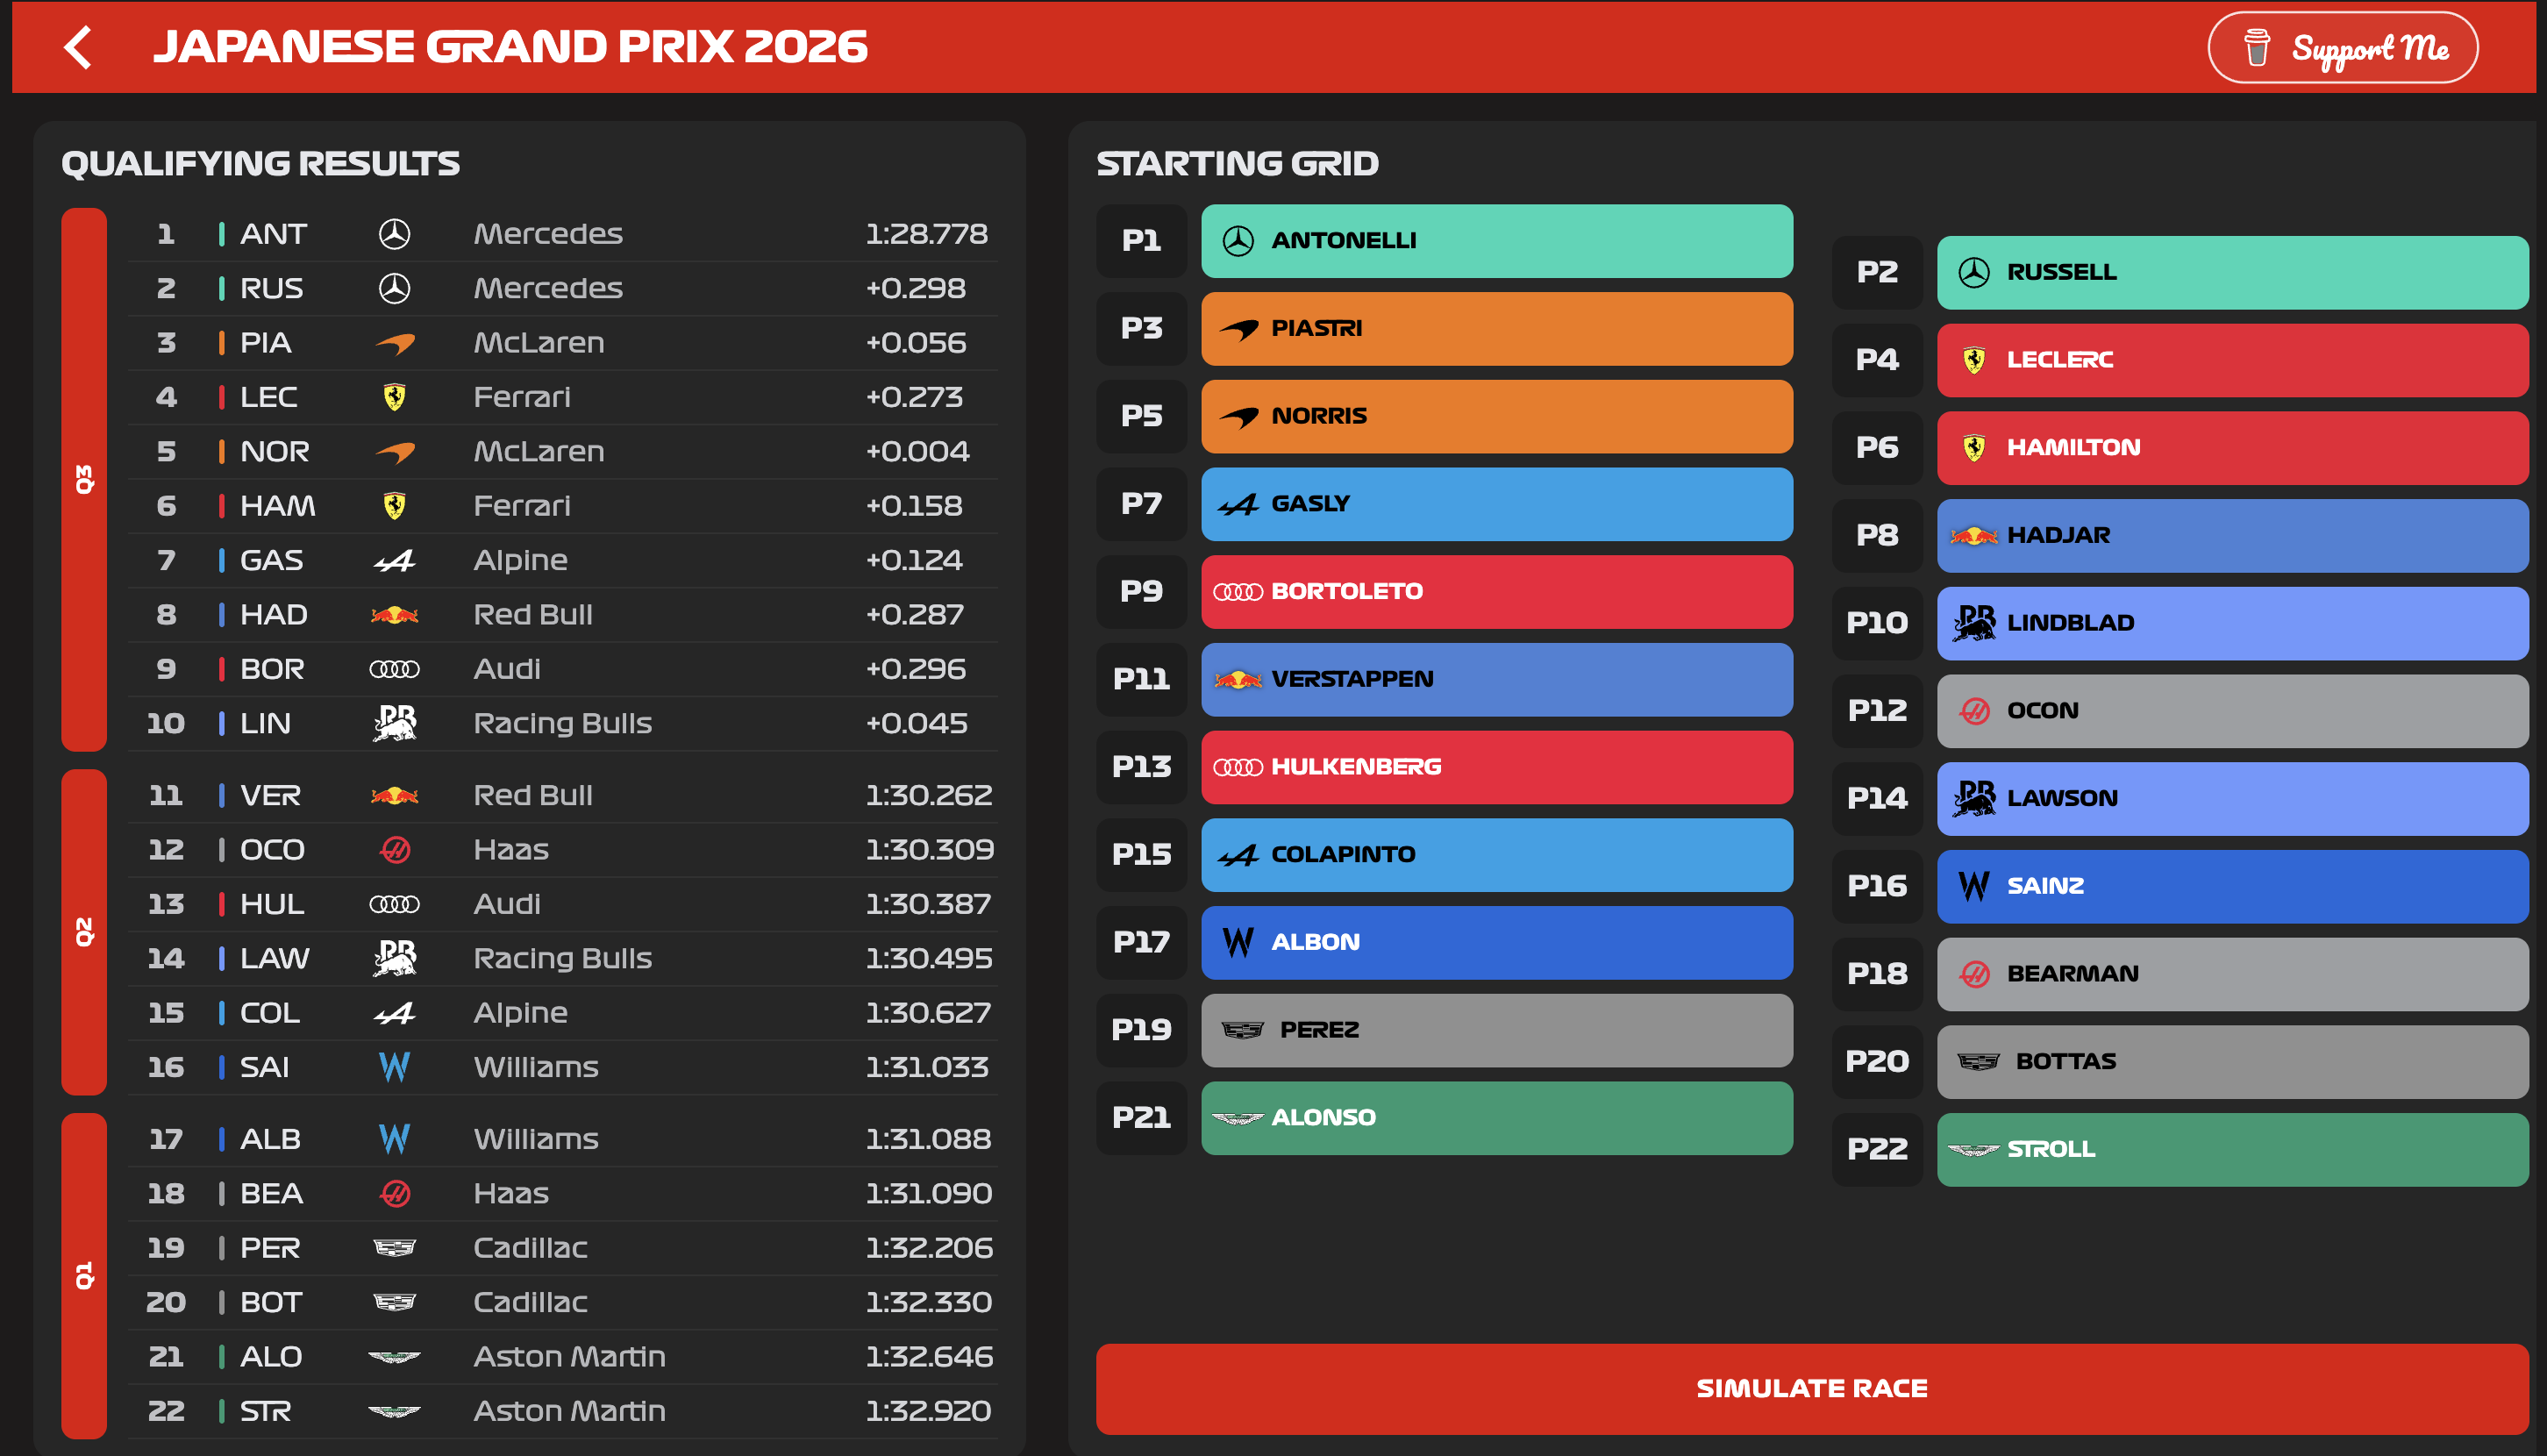
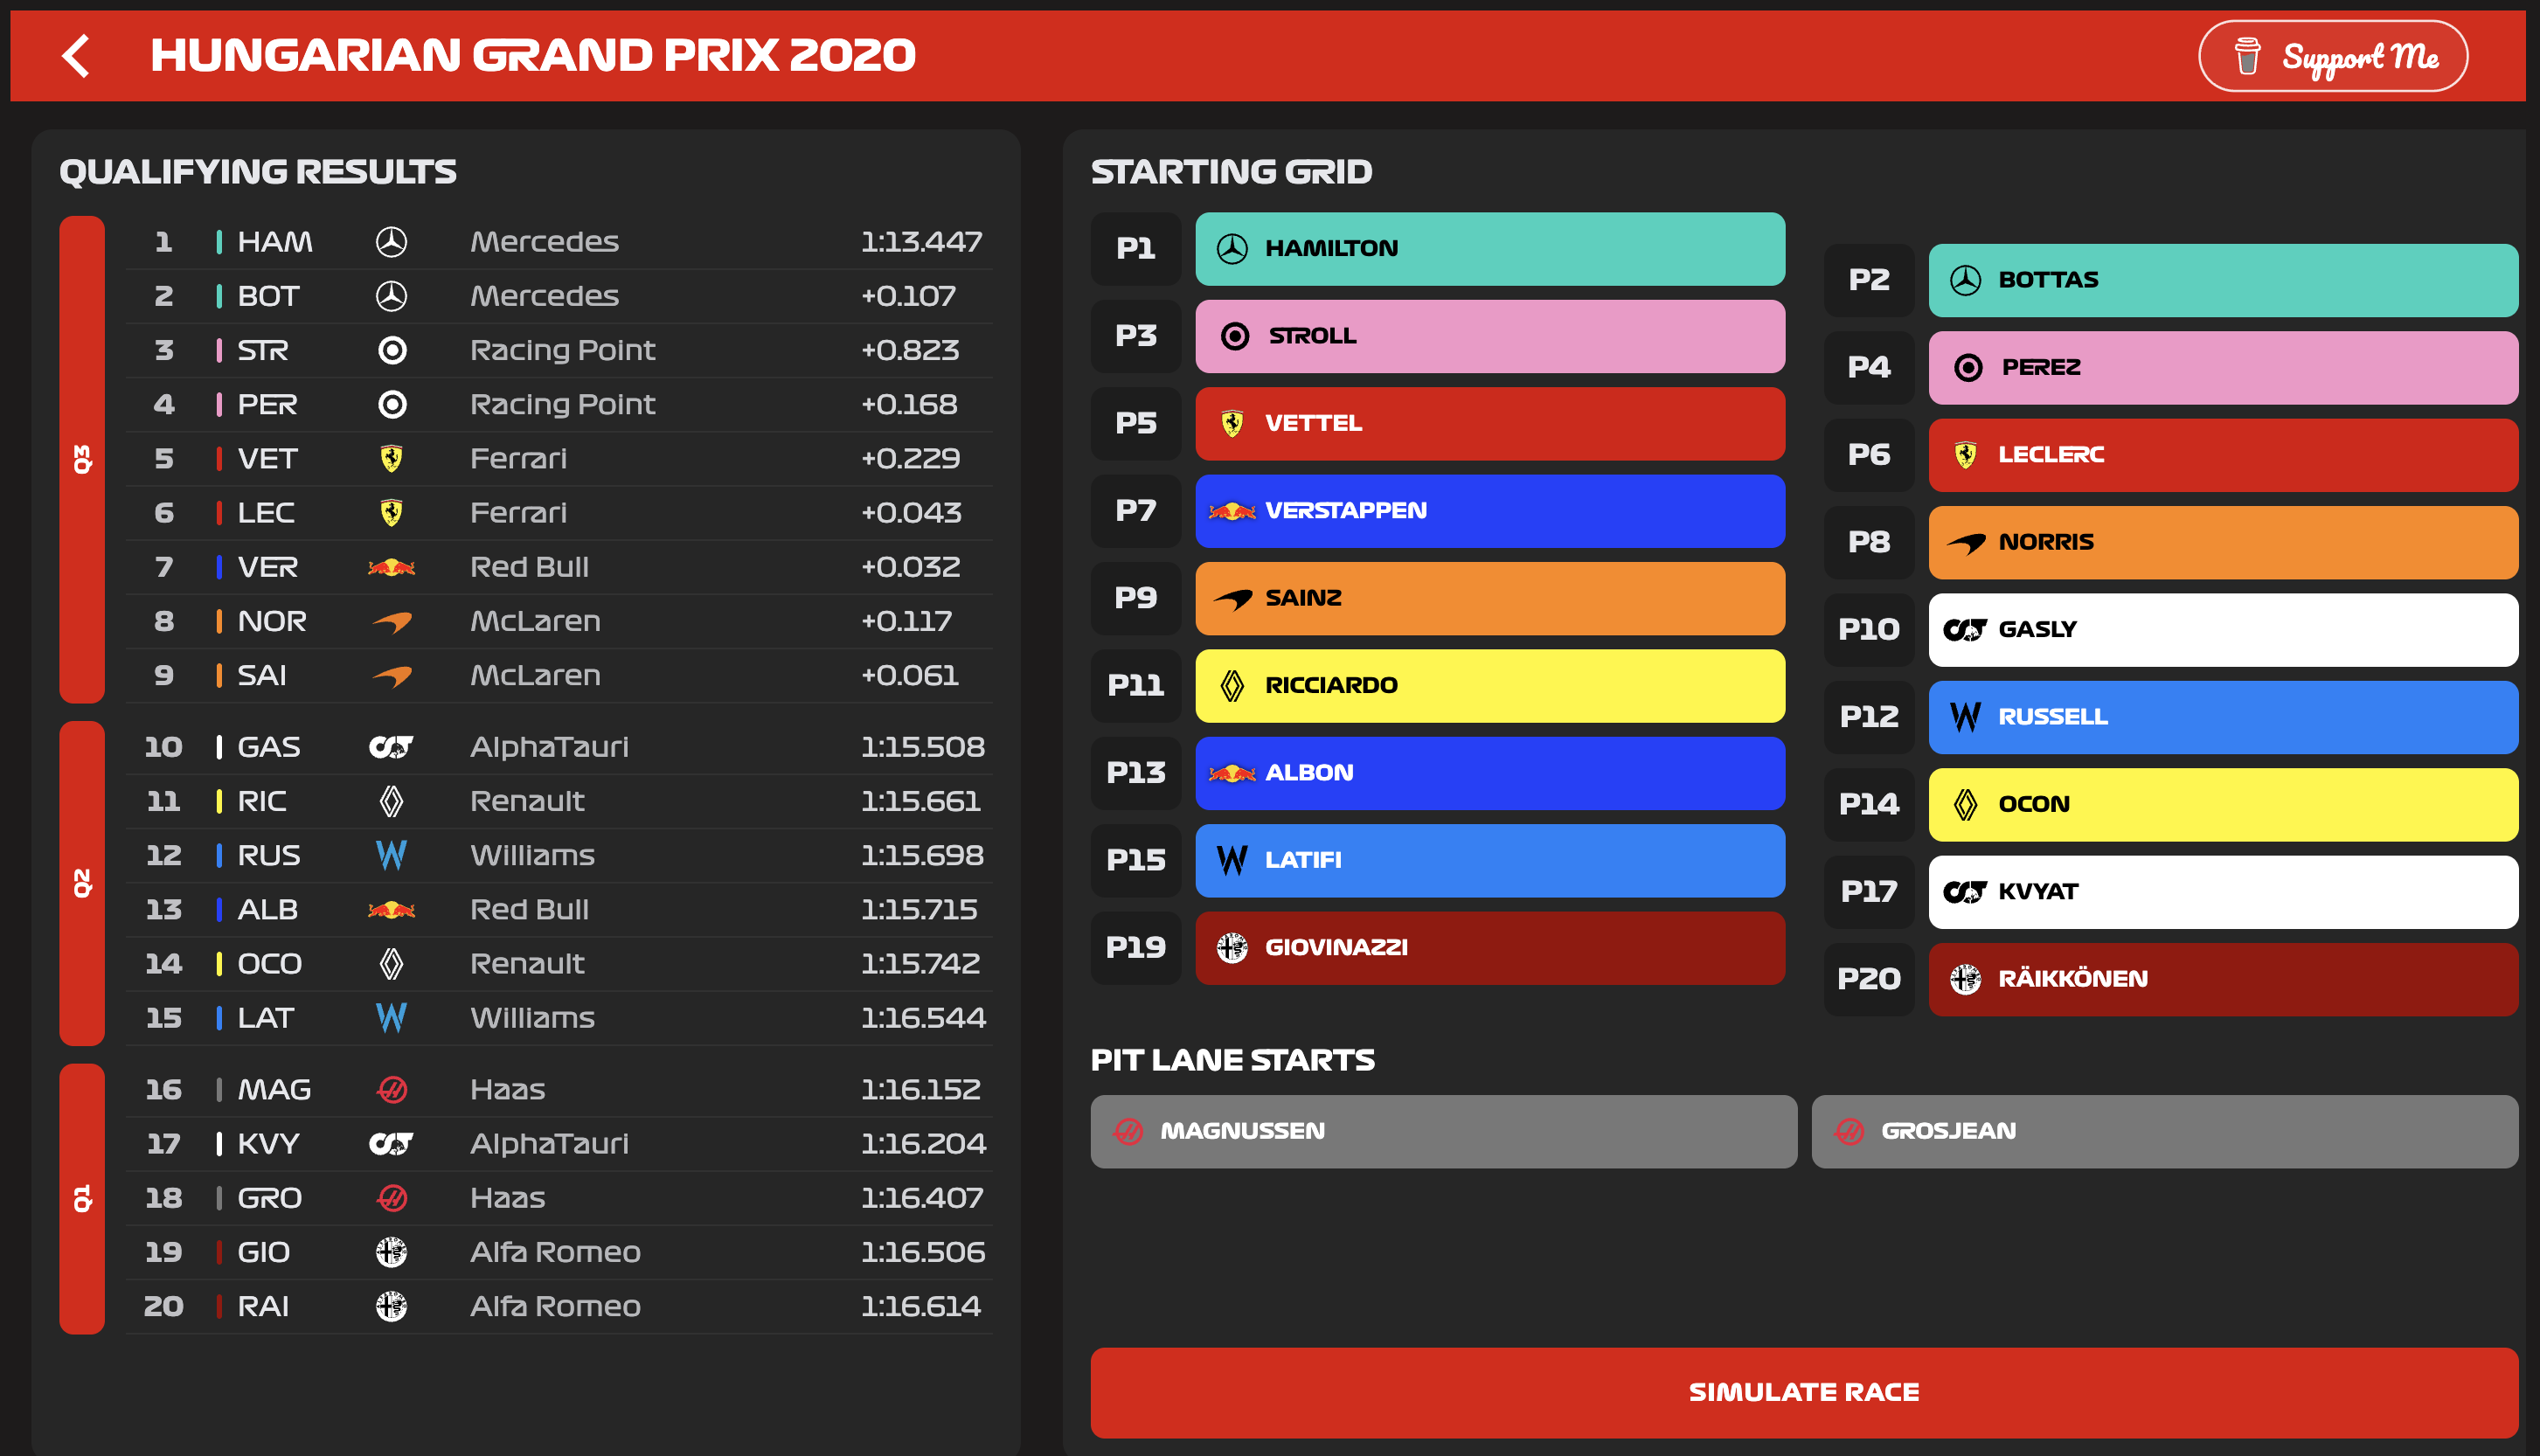
finalized the homepage

diff --git a/src/app/pages/home/home.component.scss b/src/app/pages/home/home.component.scss
@@ -15,6 +15,8 @@
 
   scroll-behavior: smooth;
 
+  // overscroll-behavior: contain;
+
   overflow-x: hidden;
 }
 
@@ -60,12 +62,18 @@
 
   box-shadow: 0 0 24px rgba(225, 6, 0, 0.4);
 
-  animation: accentGrow 0.8s ease 0.4s forwards;
+  opacity: 0;
 
   transform: scaleX(0);
+
+  animation: accentGrow 0.7s ease 0.7s forwards;
 }
 
 .hero-subtitle {
+  opacity: 0;
+
+  transform: translateY(25px);
+
   font-size: 28px;
 
   letter-spacing: 2px;
@@ -74,10 +82,14 @@
 
   color: rgba(255, 255, 255, 0.85);
 
-  animation: fadeUp 0.8s ease 0.6s forwards;
+  animation: fadeUp 0.8s ease 0.9s forwards;
 }
 
 .hero-description {
+  opacity: 0;
+
+  transform: translateY(25px);
+
   margin-top: 20px;
 
   font-size: 20px;
@@ -86,7 +98,7 @@
 
   color: rgba(255, 255, 255, 0.7);
 
-  animation: fadeUp 0.8s ease 0.8s forwards;
+  animation: fadeUp 0.8s ease 1.4s forwards;
 }
 
 /* FEATURES */
@@ -103,6 +115,12 @@
   justify-content: center;
 
   padding: 80px 80px;
+}
+
+.feature-section,
+.hero-section,
+.cta-section {
+  scroll-snap-stop: always;
 }
 
 .feature-card {
@@ -288,11 +306,24 @@ video.feature-media {
   flex-direction: column;
 
   align-items: center;
-  justify-content: center;
-
-  text-align: center;
 
   padding: 24px;
+}
+
+.cta-content {
+  flex: 1;
+
+  display: flex;
+  flex-direction: column;
+
+  justify-content: center;
+  align-items: center;
+
+  text-align: center;
+}
+
+.cta-support {
+  margin-bottom: 40px;
 }
 
 .cta-title {
@@ -307,6 +338,55 @@ video.feature-media {
   font-size: 24px;
 
   color: rgba(255, 255, 255, 0.7);
+}
+
+.cta-highlight {
+  color: #e10600;
+
+  font-family: "Formula1Bold", sans-serif;
+}
+
+.cta-button {
+  margin-top: 40px;
+
+  height: 58px;
+
+  padding: 0 36px;
+
+  border: none;
+
+  border-radius: 999px;
+
+  background: #e30902e0;
+
+  color: white;
+
+  font-family: "Formula1Bold", sans-serif;
+
+  font-size: 14px;
+
+  letter-spacing: 2px;
+
+  cursor: pointer;
+
+  transition:
+    transform 0.2s ease,
+    box-shadow 0.2s ease,
+    background 0.2s ease;
+
+  box-shadow: 0 12px 30px rgba(225, 6, 0, 0.35);
+}
+
+.cta-button:hover {
+  transform: translateY(-2px);
+
+  background: #ff1c15;
+
+  box-shadow: 0 16px 36px rgba(225, 6, 0, 0.45);
+}
+
+.cta-support {
+  margin-top: 24px;
 }
 
 /* MOBILE */
@@ -368,10 +448,12 @@ video.feature-media {
 
 @keyframes accentGrow {
   from {
+    opacity: 0;
     transform: scaleX(0);
   }
 
   to {
+    opacity: 1;
     transform: scaleX(1);
   }
 }

diff --git a/src/app/pages/home/home.component.html b/src/app/pages/home/home.component.html
@@ -69,8 +69,25 @@
   <!-- CTA -->
 
   <section class="cta-section">
-    <div class="cta-title">Ready to replay Formula 1 history?</div>
+    <div class="cta-content">
+      <div class="cta-title">Ready to replay Formula 1 history?</div>
 
-    <div class="cta-subtitle">Explore races from every season.</div>
+      <div class="cta-subtitle">
+        Explore races from every season
+        <span class="cta-highlight">from 2018</span>
+      </div>
+
+      <button class="cta-button" (click)="goToRaceSelection()">
+        REPLAY A GRAND PRIX
+      </button>
+    </div>
+
+    <div class="cta-support">
+      <app-support-button
+        text="Support PitWall"
+        buyMeCoffeeUrl="https://buymeacoffee.com/akhil2448"
+      >
+      </app-support-button>
+    </div>
   </section>
 </div>

diff --git a/src/app/pages/home/home.component.ts b/src/app/pages/home/home.component.ts
@@ -1,5 +1,6 @@
 import { Component } from '@angular/core';
 import { CommonModule } from '@angular/common';
+import { Router } from '@angular/router';
 
 import {
   AfterViewInit,
@@ -8,6 +9,7 @@ import {
   ViewChildren,
   NgZone,
 } from '@angular/core';
+import { SupportButtonComponent } from '../../shared/components/support-button/support-button.component';
 
 export interface Feature {
   title: string;
@@ -21,12 +23,15 @@ export interface Feature {
 @Component({
   selector: 'app-home',
   standalone: true,
-  imports: [CommonModule],
+  imports: [CommonModule, SupportButtonComponent],
   templateUrl: './home.component.html',
   styleUrls: ['./home.component.scss'],
 })
 export class HomeComponent implements AfterViewInit {
-  constructor(private ngZone: NgZone) {}
+  constructor(
+    private ngZone: NgZone,
+    private router: Router,
+  ) {}
 
   features: Feature[] = [
     {
@@ -139,5 +144,9 @@ export class HomeComponent implements AfterViewInit {
     this.featureSections.forEach((section) => {
       observer.observe(section.nativeElement);
     });
+  }
+
+  goToRaceSelection(): void {
+    this.router.navigate(['/select-race']);
   }
 }

diff --git a/src/app/app.config.ts b/src/app/app.config.ts
@@ -1,5 +1,5 @@
 import { ApplicationConfig, provideZoneChangeDetection } from '@angular/core';
-import { provideRouter } from '@angular/router';
+import { provideRouter, withInMemoryScrolling } from '@angular/router';
 
 import { routes } from './app.routes';
 import { provideHttpClient } from '@angular/common/http';
@@ -7,7 +7,14 @@ import { provideHttpClient } from '@angular/common/http';
 export const appConfig: ApplicationConfig = {
   providers: [
     provideZoneChangeDetection({ eventCoalescing: true }),
-    provideRouter(routes),
+
+    provideRouter(
+      routes,
+      withInMemoryScrolling({
+        scrollPositionRestoration: 'top',
+      }),
+    ),
+
     provideHttpClient(),
   ],
 };